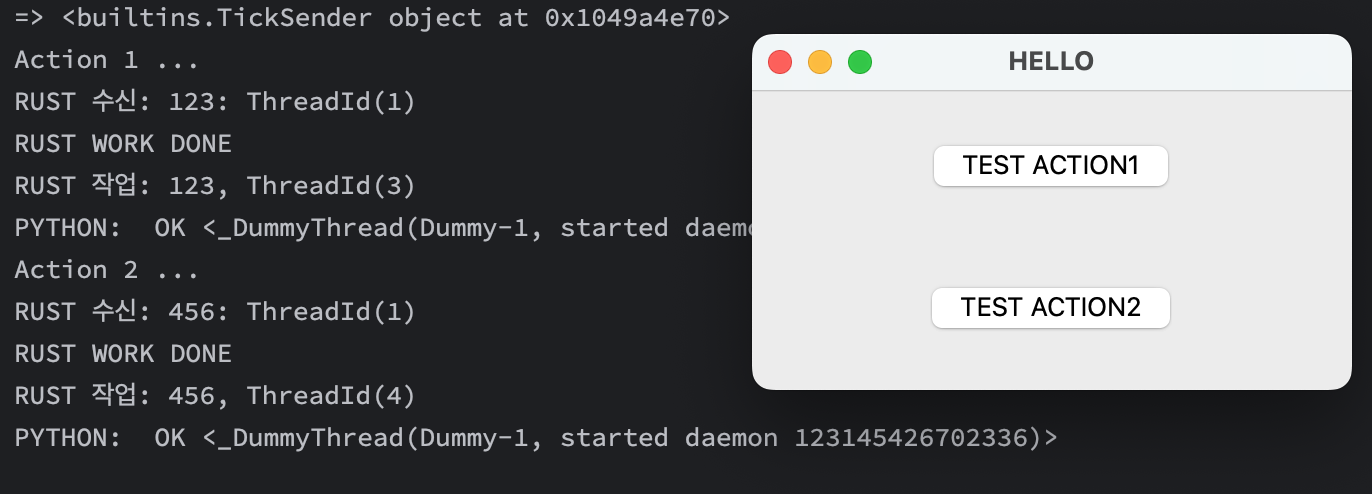
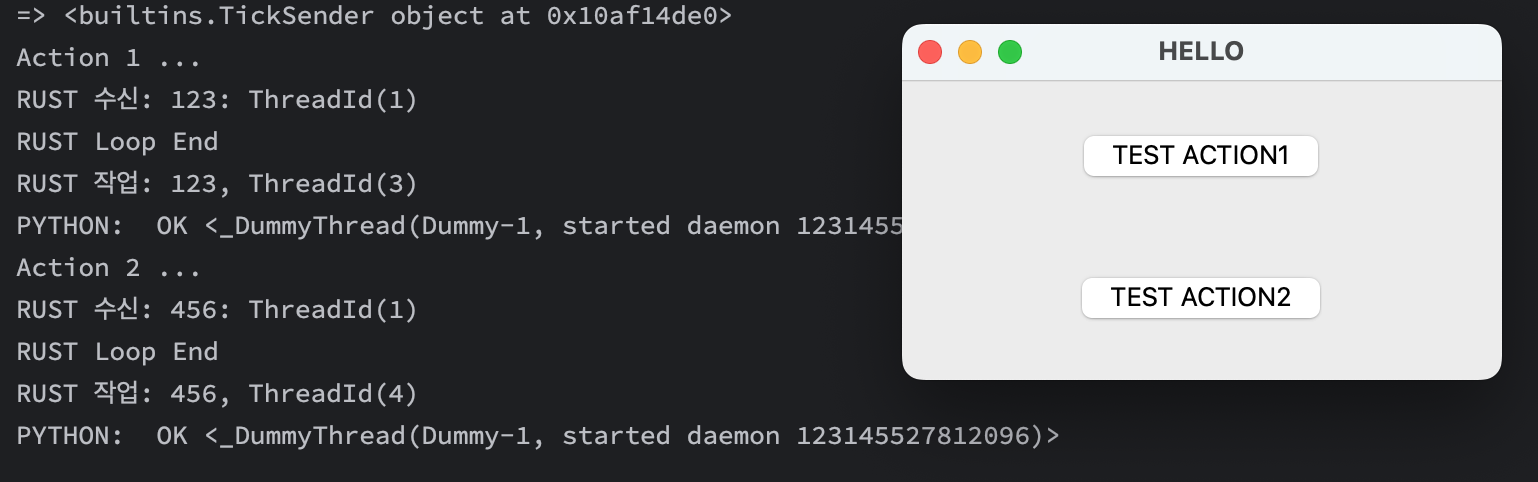
rally_python_rust_mpsc

diff --git a/rally_python_rust_mpsc/src/lib.rs b/rally_python_rust_mpsc/src/lib.rs
@@ -18,7 +18,7 @@ fn ready(callback: PyObject) -> TickSender {
                     func.call1(py, args).unwrap();
                 });
             });
-            println!("RUST WORK DONE");
+            println!("RUST Loop End");
         }
         eprintln!("RUST: Channel Finished");
     });

diff --git a/rally_python_rust_mpsc/README.md b/rally_python_rust_mpsc/README.md
@@ -25,12 +25,11 @@
 5. 루프는 계속 돌며 Receiver 값을 받고 처리한다.
 6. 작업 쓰레드는 일을 마치면 인자로 받은 파이썬 콜백에 결과를 전달한다.
 
-파이썬의 채널을 이용할 수도 있지만, 혹시나 더 빠를까 싶어 러스트 채널을 활용했다.
-전통적인 콜백 구조라서 꼬일 일이 없다.
-파이썬에서 가져간 러스트 Sender 는 파이썬의 몇 군데 모듈에서 동시에 쏟아붇는 것을 가졍했다.
-러스트의 쓰레드 루프에서 값 처리를 한 번에 담당하고 
-그 이상의 작업을 다시 쓰레드로 던져 루프 순환에 방해되지 않게 했다.
-따라서 work 쪽에서 무슨 함수로 처리할지는 이 구조에서 확장하면 된다.
+- 파이썬의 채널을 이용할 수도 있지만, 혹시나 더 빠를까 싶어 러스트 채널을 활용했다.
+- 전통적인 콜백 구조라서 꼬일 일이 없다.
+- 파이썬에서 가져간 러스트 Sender 는 파이썬의 몇 군데 모듈에서 동시에 쏟아붇는 것을 가졍했다.
+- 러스트의 쓰레드 루프에서 값 처리를 한 번에 담당하고 그 이상의 작업을 다시 쓰레드로 던져 루프 순환에 방해되지 않게 했다.
+  따라서 work 쪽에서 무슨 함수로 처리할지는 이 구조에서 확장하면 된다.
 
 
 ## 파이썬 의존성
